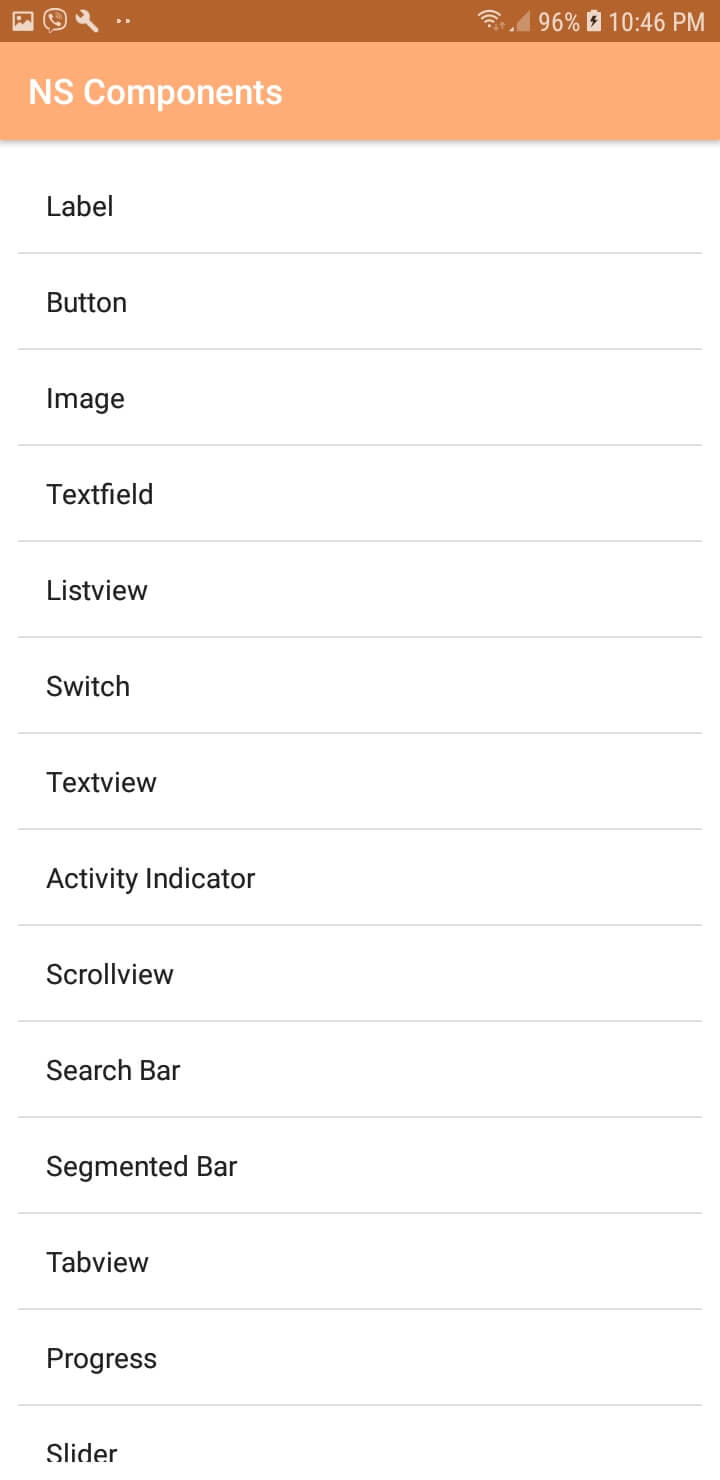
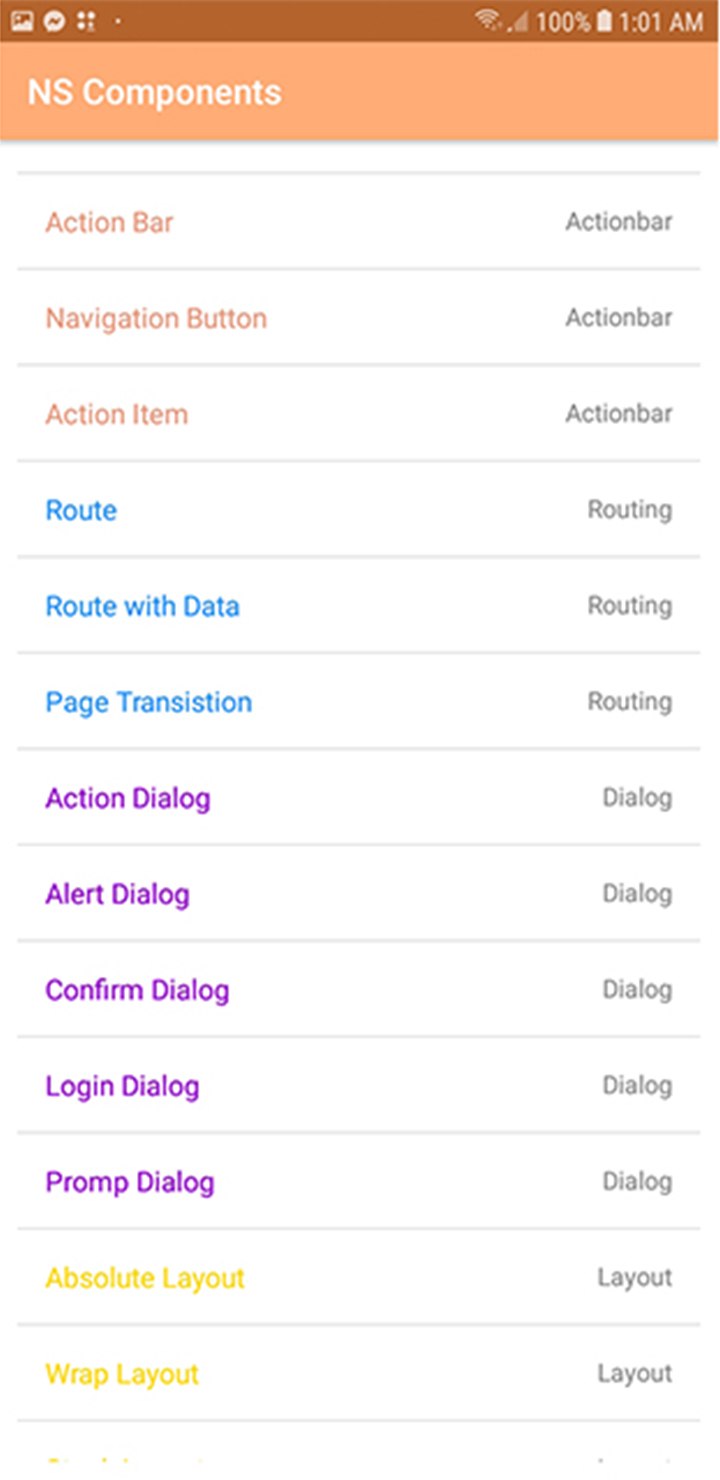
update screenshot and markdown

diff --git a/README.md b/README.md
@@ -4,7 +4,7 @@
 
 
 ## NS Components
-I created this app to help new learners on how to apply components, plugins and common used of properties that may use in real world application.
+I created this app to help new learners on how to apply components, plugins and common used of properties/events that may use in real world application.
 
 If happen you 💖 my project please dont forget to give me a ⭐. Show your love and give me more motivation to create more open source project using Nativescript. 👍
 
@@ -17,6 +17,10 @@ If happen you 💖 my project please dont forget to give me a ⭐. Show your lov
 #### Todo: More Samples
 - [ ] Layout Elements
 - [ ] All
+
+#### Project Used:
+[Facebook UI](https://github.com/jaasaria/nsvue.FacebookUI)
+[Todo](https://github.com/jaasaria/nsvue.Todo-Offline)
 
 
 #### Plugin Used
